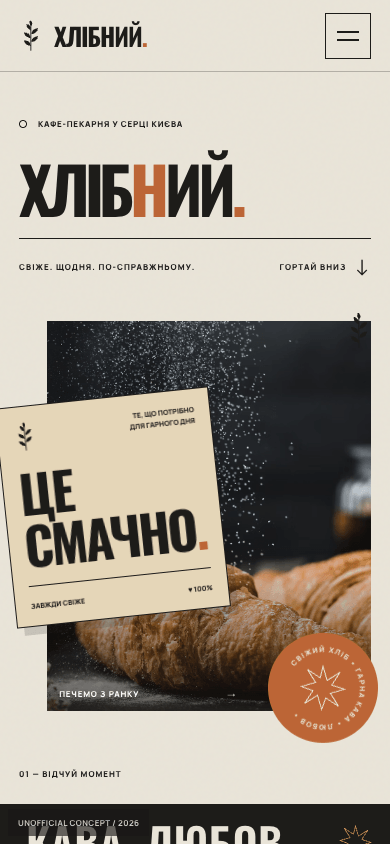
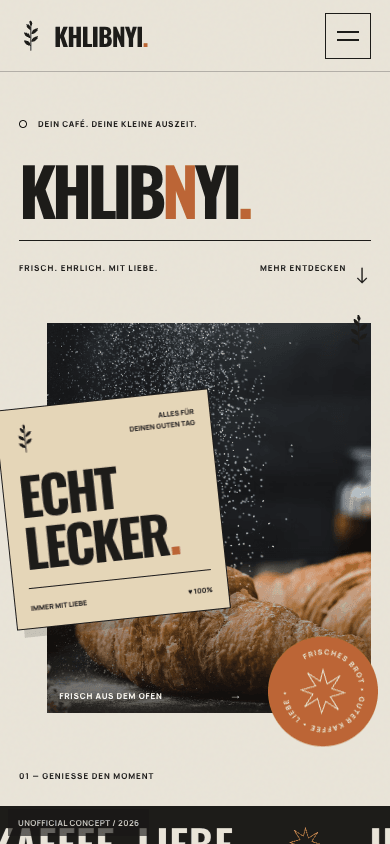
feat(khlibnyi): localize bakery and add German interior pages

diff --git a/apps/khlibnyi/public/pages.css b/apps/khlibnyi/public/pages.css
@@ -1,0 +1,1 @@
+.inner-header{display:flex;justify-content:space-between;align-items:center;gap:30px;padding:28px 5vw;border-bottom:1px solid #25221e25}.inner-logo{font:600 34px Oswald,sans-serif;letter-spacing:-1px}.inner-logo span{color:#bd542e}.inner-header nav,.inner-footer nav{display:flex;flex-wrap:wrap;gap:24px;font-size:13px}.inner-header nav a{padding:10px 0;border-bottom:2px solid transparent}.inner-header nav a[aria-current],.inner-header nav a:hover{border-color:#bd542e;color:#a64120}.inner-main{max-width:1320px;margin:auto;padding:75px 5vw 100px}.inner-main h1{font:500 clamp(55px,9vw,120px)/.95 Oswald,sans-serif;letter-spacing:-.025em;margin:25px 0 32px;max-width:900px}.inner-main h2{font:500 clamp(30px,4vw,54px)/1.15 Oswald,sans-serif;margin:0 0 20px}.inner-main .lead{max-width:650px;line-height:1.8;font-size:18px;margin-bottom:45px}.page-kicker{letter-spacing:.15em;font-size:11px}.bakery-grid{display:grid;grid-template-columns:repeat(3,minmax(0,1fr));gap:24px;margin-top:36px}.bakery-item{background:#f7f3e9;border:1px solid #25221e1a;padding:24px;border-radius:8px;transition:box-shadow .25s,transform .25s}.bakery-item img{width:100%;height:180px;object-fit:contain;margin-bottom:20px}.bakery-item h2{font-size:27px}.bakery-item p{font-size:14px;line-height:1.7;margin-bottom:18px}.bakery-item small{font-size:11px;color:#6b6459}.bakery-item[hidden]{display:none}.inner-split{display:grid;grid-template-columns:1fr 1fr;gap:65px;margin-block:55px}.inner-split img{width:100%;height:auto;border-radius:8px}.inner-split p{line-height:1.85;margin-bottom:25px}.inner-footer{background:#24221f;color:#eee7d8;padding:45px 5vw;display:grid;gap:24px}.inner-footer small{opacity:.65}.inner-footer a:hover{color:#df9a78}.inner-cta{display:inline-flex;padding:17px 25px;background:#bd542e;color:white;border-radius:4px;justify-content:center;text-align:center;transition:background .2s}.inner-cta:hover{background:#963e20}.bakery-note{padding:24px;border-left:3px solid #bd542e;line-height:1.7;margin-top:40px}.header-cta,.pill-link,.text-link{justify-content:center;text-align:center}.hero-title-line{font-size:clamp(60px,17vw,250px)}@media(hover:hover){.bakery-item:hover{transform:translateY(-3px);box-shadow:0 12px 30px #322a1812}}@media(max-width:760px){.inner-header{display:block;padding:22px 6vw}.inner-header nav{gap:20px;margin-top:18px}.inner-main{padding:45px 6vw 65px}.inner-split{grid-template-columns:1fr;gap:25px}.bakery-grid{grid-template-columns:1fr 1fr;gap:14px}.bakery-item{padding:17px}.bakery-item img{height:130px}.bakery-item h2{font-size:23px}}@media(max-width:430px){.bakery-grid{grid-template-columns:1fr}.bakery-item img{height:190px}}@media(prefers-reduced-motion:reduce){.bakery-item,.inner-cta{transition:none}}

diff --git a/apps/khlibnyi/src/data/menu.ts b/apps/khlibnyi/src/data/menu.ts
@@ -1,0 +1,14 @@
+export const menu = [
+ {name:'Buttercroissant',category:'bakery',image:'croissant.svg',text:'Feine Schichten, eine goldene Kruste und ein weicher Kern. Pur oder mit Fruchtaufstrich.',allergens:'Weizen, Milch'},
+ {name:'Mandelcroissant',category:'bakery',image:'croissant.svg',text:'Croissant mit Mandelcreme und gerösteten Mandeln. Für die etwas längere Kaffeepause.',allergens:'Weizen, Milch, Ei, Mandeln'},
+ {name:'Sauerteigbrot',category:'bakery',image:'bread.svg',text:'Kräftige Kruste, saftige Krume. Eine Brotidee für Frühstück, Abendbrot und alles dazwischen.',allergens:'Weizen, Roggen'},
+ {name:'Zimtschnecke',category:'bakery',image:'croissant.svg',text:'Weicher Hefeteig mit Zimtfüllung. Am besten mit einer warmen Tasse Kaffee.',allergens:'Weizen, Milch, Ei'},
+ {name:'Cappuccino',category:'coffee',image:'coffee.svg',text:'Espresso und fein aufgeschäumte Milch. Auf Wunsch als Variante mit Haferdrink.',allergens:'Milch; Hafer bei Alternative'},
+ {name:'Flat White',category:'coffee',image:'coffee.svg',text:'Intensiver Espresso, wenig feinporiger Milchschaum. Klar, kräftig, ausgewogen.',allergens:'Milch'},
+ {name:'Filterkaffee',category:'coffee',image:'coffee.svg',text:'Langsam aufgebrüht und ohne Eile genossen. Die passende Begleitung für dein Lieblingsgebäck.',allergens:'Keine Rezepturallergene vorgesehen'},
+ {name:'Iced Latte',category:'coffee',image:'coffee.svg',text:'Espresso auf Eis mit Milch oder Haferdrink. Eine kühle Pause für warme Tage.',allergens:'Milch; Hafer bei Alternative'},
+ {name:'Beerentörtchen',category:'dessert',image:'dessert.svg',text:'Knuspriger Boden, leichte Creme und fruchtige Beeren. Klein, frisch und fein.',allergens:'Weizen, Milch, Ei'},
+ {name:'Käsekuchen',category:'dessert',image:'dessert.svg',text:'Cremige Füllung mit einer feinen Zitrusnote auf einem zarten Keksboden.',allergens:'Weizen, Milch, Ei'},
+ {name:'Schokoladenkuchen',category:'dessert',image:'dessert.svg',text:'Saftiger Kuchen mit dunkler Schokolade. Eine gute Idee für einen grauen Nachmittag.',allergens:'Weizen, Milch, Ei'},
+ {name:'Joghurt & Granola',category:'dessert',image:'dessert.svg',text:'Joghurt, knuspriges Granola und saisonale Früchte. Für einen entspannten Start.',allergens:'Milch, Hafer, Nüsse'},
+];

diff --git a/apps/khlibnyi/public/app.js b/apps/khlibnyi/public/app.js
@@ -60,7 +60,7 @@
     menuOpen = open;
     if (!menuButton || !mobileNav) return;
     menuButton.setAttribute('aria-expanded', String(open));
-    menuButton.setAttribute('aria-label', open ? 'Закрити меню' : 'Відкрити меню');
+    menuButton.setAttribute('aria-label', open ? 'Menü schließen' : 'Menü öffnen');
     mobileNav.setAttribute('aria-hidden', String(!open));
     mobileNav.inert = !open;
     mobileNav.classList.toggle('is-open', open);
